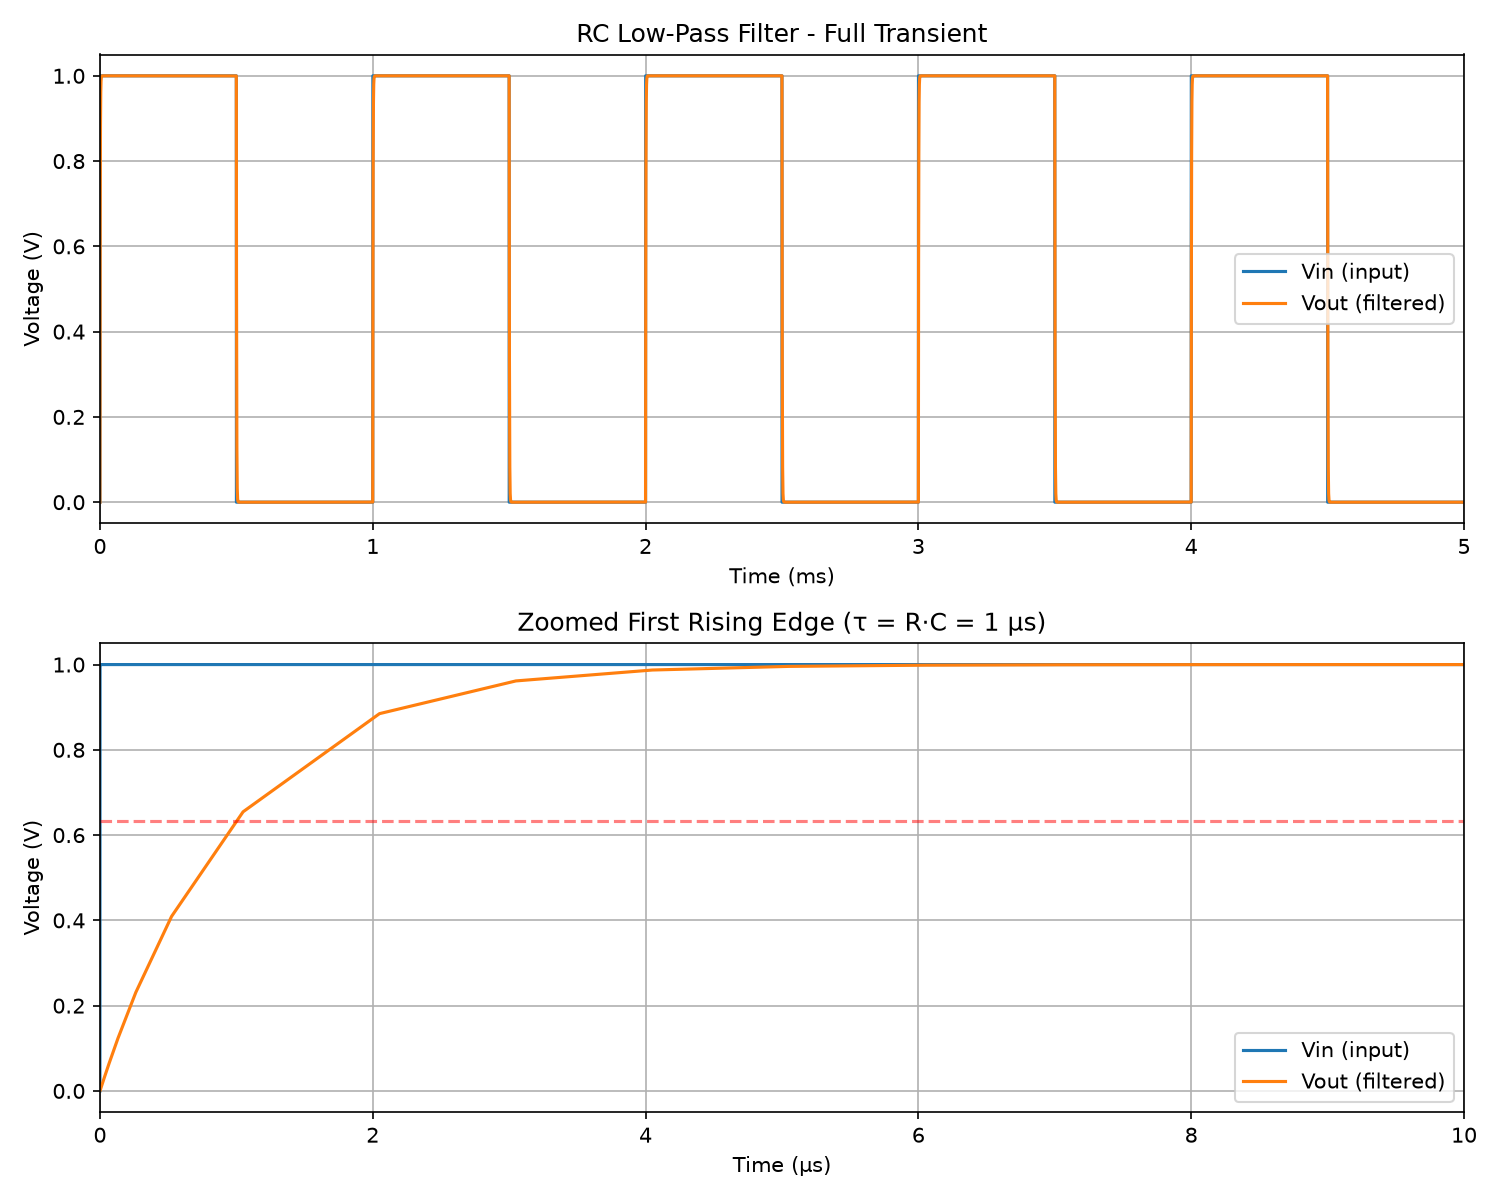
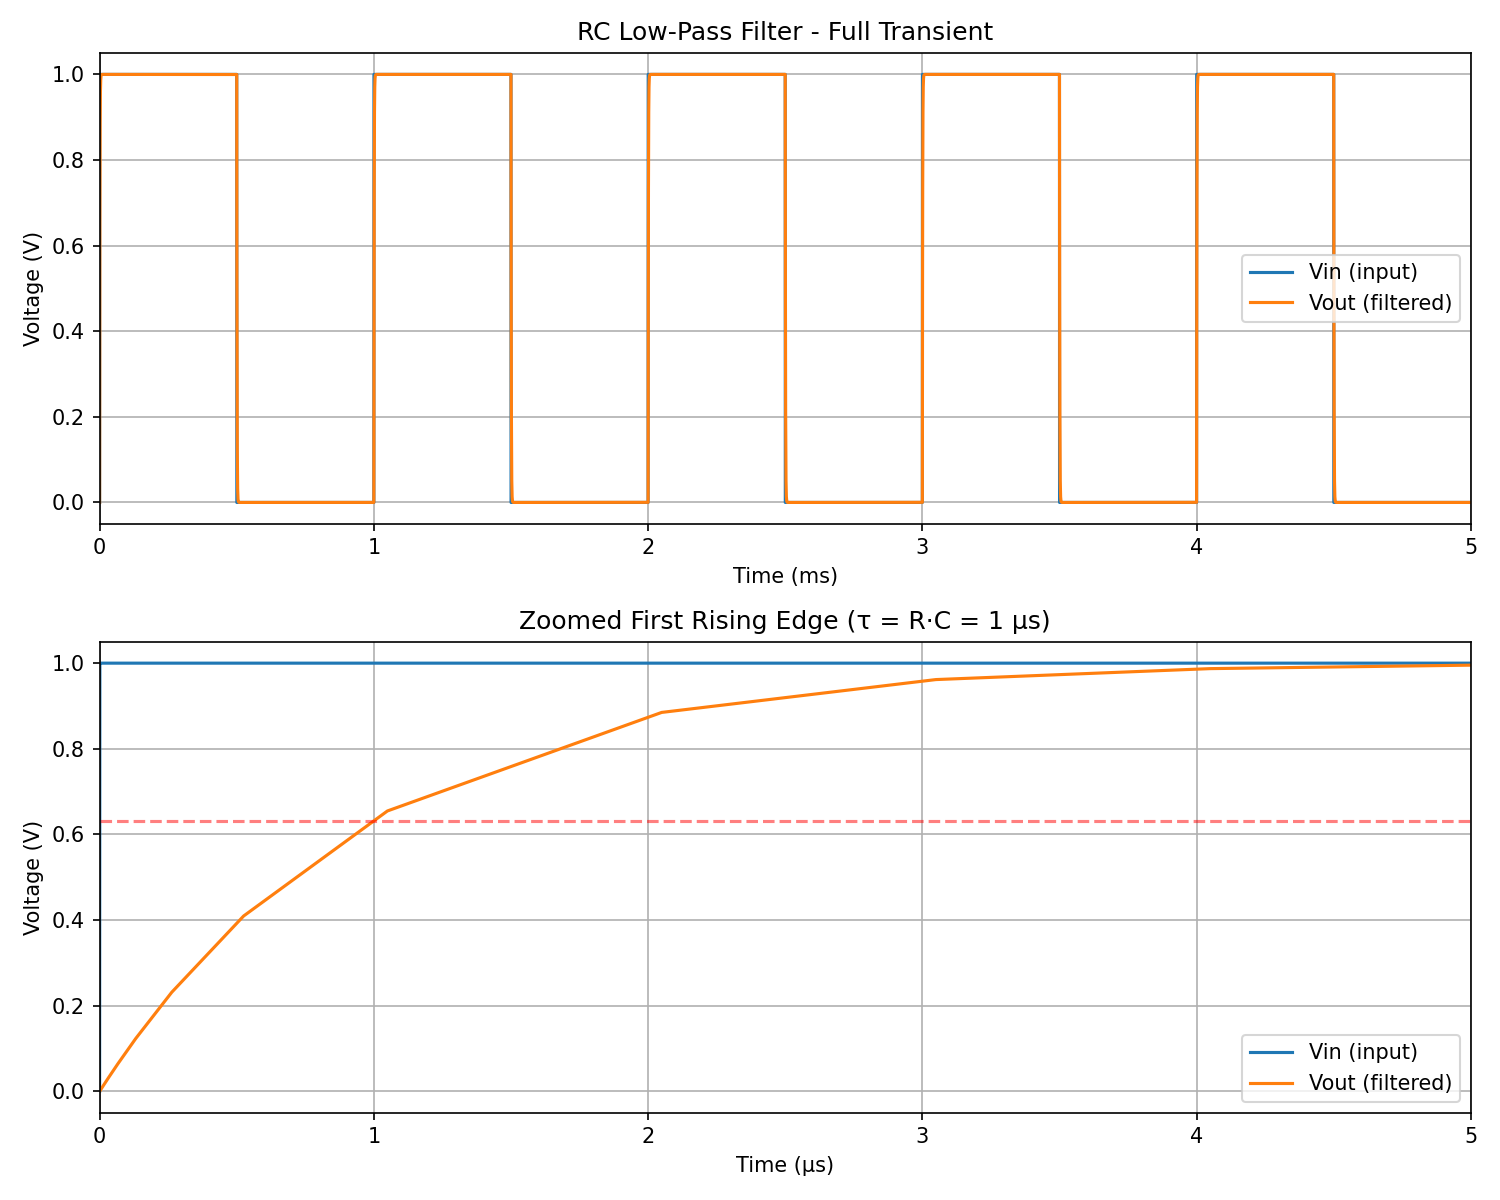
fix

diff --git a/rc_filter/plot_results.py b/rc_filter/plot_results.py
@@ -32,7 +32,7 @@ axes[1].set_ylabel("Voltage (V)")
 axes[1].set_title("Zoomed First Rising Edge (τ = R·C = 1 µs)")
 axes[1].legend()
 axes[1].grid(True)
-axes[1].set_xlim(0, 10)
+axes[1].set_xlim(0, 5)
 axes[1].axhline(y=0.632, color="r", linestyle="--", alpha=0.5, label="63.2%")
 
 plt.tight_layout()

diff --git a/rc_filter/layout/README.md b/rc_filter/layout/README.md
@@ -5,8 +5,8 @@ RC low-pass filter in `rc_filter.spice`.
 
 ## Files
 
-- `generate_layout.tcl` — Magic Tcl script that draws the resistor, capacitor,
-  routing, and probe pads.
+- `generate_layout.tcl` — Magic Tcl script that draws a 100 kΩ poly resistor,
+  a 10 pF MIM capacitor, routing, and probe pads.
 - `run_layout.sh` — Convenience script that checks for Magic + sky130A and runs
   `generate_layout.tcl`.
 - `rc_filter.mag` — Pre-generated Magic layout cell.  Re-created by
@@ -61,14 +61,13 @@ In WSL you need an X server (WSLg on Windows 11, or VcXsrv/Xming on Windows 10).
 
 ## Layout notes
 
-- **R1 (1 kΩ)** is drawn as a symbolic poly resistor strip.  For a real tape-out,
-  use the PDK resistor cell `sky130_fd_pr__res_generic_po` to get a calibrated,
-  DRC-clean resistor.
-- **C1 (1 nF)** is drawn as a small symbolic MIM capacitor.  A real 1 nF MIM
-  capacitor in sky130 would occupy roughly 0.5 mm² (~707 µm × 707 µm), which is
-  very expensive in silicon area.  In most practical designs a 1 nF capacitor is
-  placed off-chip and bonded to the IC pads, or a much smaller on-chip cap is
-  used with a correspondingly larger resistor.
+- **R1 (100 kΩ)** is drawn as a symbolic poly resistor strip.  A SkyWater 130 nm
+  high-resistance poly resistor is roughly 350 Ω/square, so 100 kΩ needs about
+  286 squares (~143 µm long at 0.5 µm width).  For a real tape-out, use the PDK
+  resistor cell `sky130_fd_pr__res_generic_po` to get a calibrated, DRC-clean
+  resistor.
+- **C1 (10 pF)** is drawn as a MIM capacitor.  At ~2 fF/µm² a 10 pF MIM cap
+  occupies roughly 70 µm × 70 µm, which is a practical on-chip size.
 - The layout includes large `met5` probe pads labeled `Vin`, `Vout`, and `GND`
   so the circuit can be simulated, probed, or wire-bonded.
 

diff --git a/rc_filter/README.md b/rc_filter/README.md
@@ -14,20 +14,21 @@ A minimal analog simulation project for the IIC-OSIC-TOOLS container.
 ## The circuit
 
 ```
-        R1 = 1 kΩ
+        R1 = 100 kΩ
 Vin ----[====]----+---- Vout
                  |
-                === C1 = 1 nF
+                === C1 = 10 pF
                  |
                 GND
 ```
 
-Time constant: τ = R·C = 1 kΩ × 1 nF = 1 µs  
+Time constant: τ = R·C = 100 kΩ × 10 pF = 1 µs  
 -3 dB corner frequency: f_c ≈ 1 / (2πRC) ≈ 159 kHz
 
 The input is a 1 kHz square wave (0 V to 1 V). Because 1 kHz is far below
 f_c, the square wave passes through, but its edges are rounded by the RC
-charging/discharging behavior.
+charging/discharging behavior. These R/C values are practical for an on-chip
+passive RC filter using a SkyWater 130 nm poly resistor and MIM capacitor.
 
 ## Run the simulation from inside the container
 
@@ -63,11 +64,11 @@ charging/discharging behavior.
 Open `rc_filter.spice` in a text editor and change R1 or C1. For example:
 
 ```spice
-R1 in out 10k
-C1 out 0  10n
+R1 in out 1meg
+C1 out 0  1p
 ```
 
-This gives τ = 100 µs — the output will look much more rounded at 1 kHz.
+This also gives τ = 1 µs with a smaller capacitor and a longer resistor.
 Re-run the simulation and plot to see the difference.
 
 ## Command reference